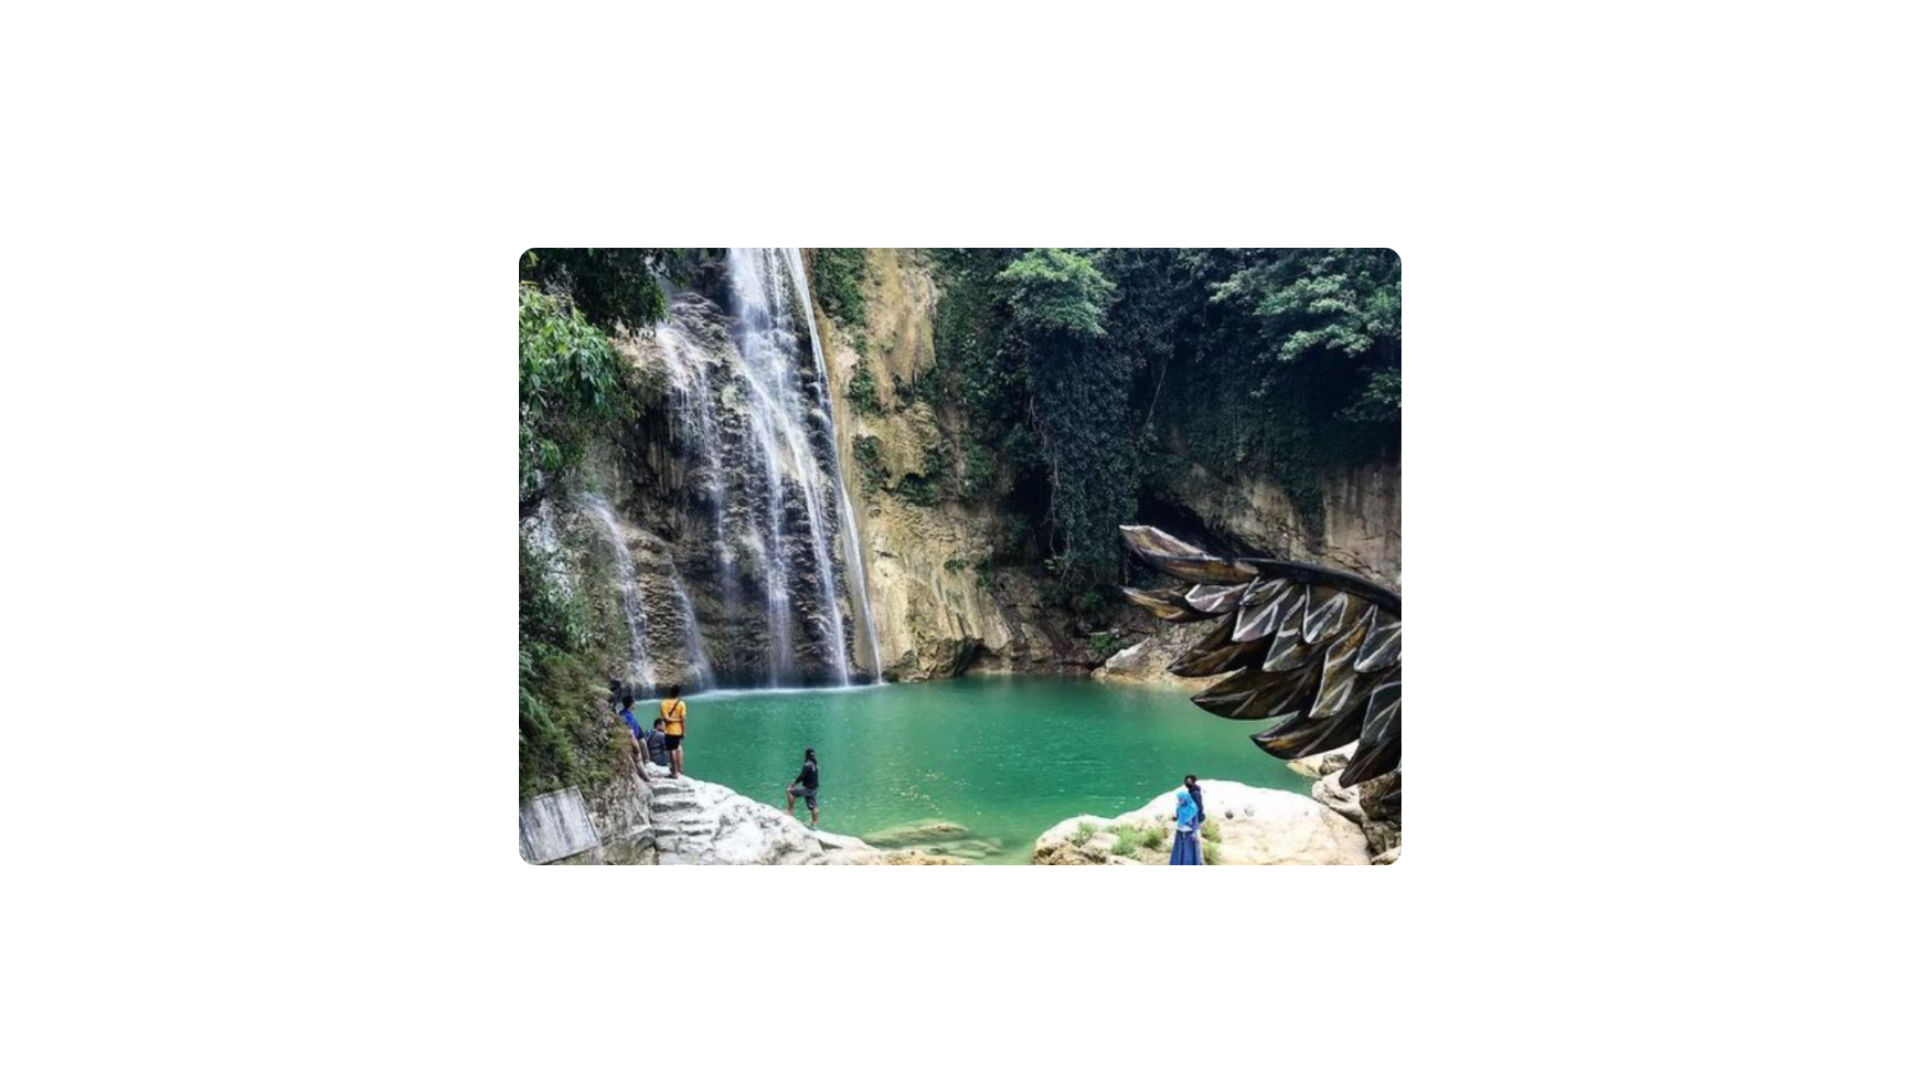
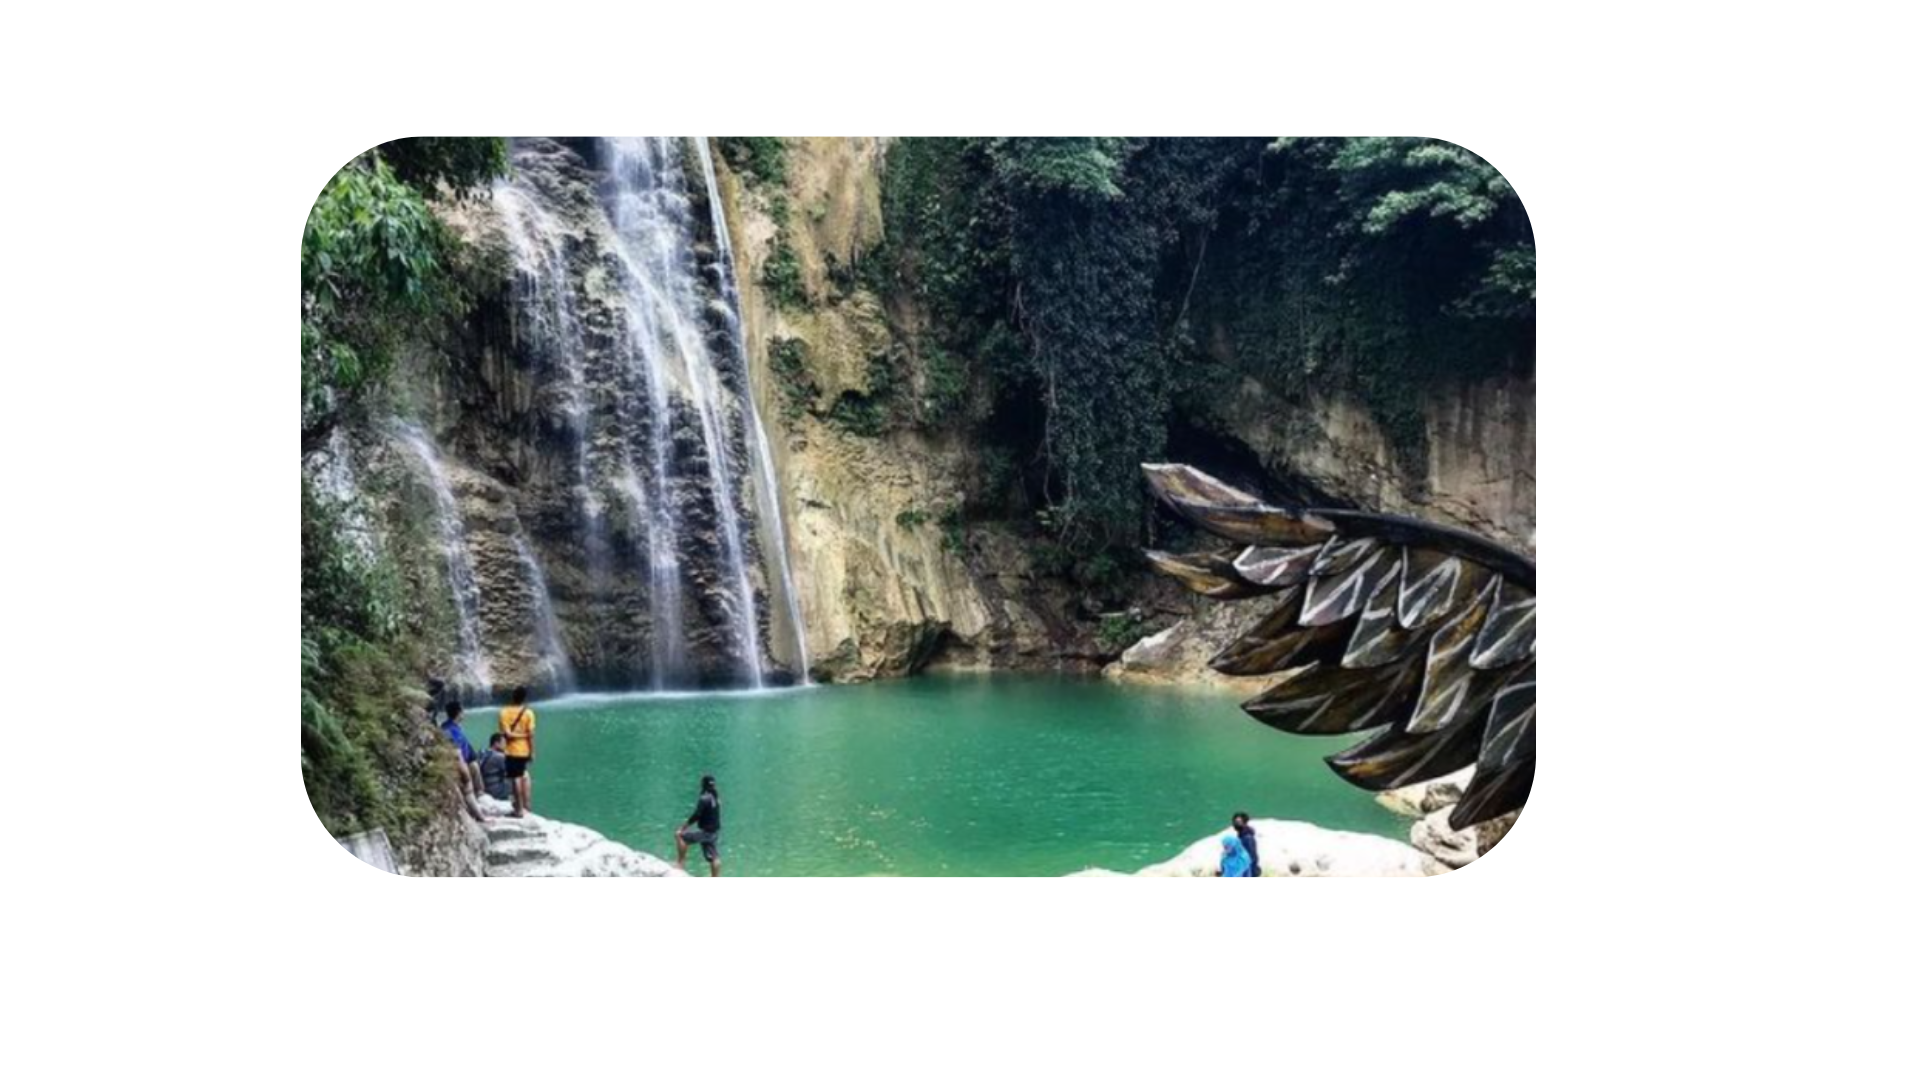
Update home

diff --git a/index.html b/index.html
@@ -87,21 +87,23 @@
         <div class="box-containt">
             <div class="boc">
             <img src="photo/dewa.png">
-            <!-- <h3>Memilik Keunikan Patung Dewa Kwan Kong di Tuban</h3>
-            <h4>Klenteng Kwan Sing Bio dibangun di area sekitar 4-5 hektar....</h4>
-            </div> -->
+            <h4>Menilik Keunikan Patung Dewa Kwan Kong di Tuban</h4>
+            <p>Klenteng Kwan Sing Bio dibangun di area sekitar 4-5 hektar....</p>
+            </div> 
             <div class="boc">
                 <img src="photo/layang.png">
-                <!-- <h3>Menikmati Surut di Pantai Cemara Tuban</h3>
-                <h4>Pantai tersebut ramai oleh wisatawan untuk menikmati surutnya air laut.....</h4>
-            </div> -->
+                <h4>Menikmati Surut di Pantai Cemara Tuban</h4>
+                <p>Pantai tersebut ramai oleh wisatawan untuk menikmati surutnya air laut.....</p>
+            </div>
             <div class="boc">
                 <img src="photo/danau.png">
-                <!-- <h3>13 Wisata Air di Tuban, Air Terjun sampai Pemandian Air Panas</h3>
-                <h4>Mulai dari wisata air terjun, danau, hingga kolam pemandian dan mata air, semua ada di...</h4>
-        </div> -->
+                <h4>13 Wisata Air di Tuban, Air Terjun sampai Pemandian Air Panas</h4>
+                <p>Mulai dari wisata air terjun, danau,hingga kolam pemandian dan mata air, semua ada di...</p>
+        </div>
     </div>
 </section>
+
+<!-- Hotel Recommendation -->
 
 
 

diff --git a/style.css b/style.css
@@ -75,7 +75,7 @@ a:hover {
 /* Navbar */
 
 .navbar {
-    width: 100%;
+    /* width: 100%; */
     height: 80px;
     max-width: 1200px;
     margin: 0 auto;
@@ -149,23 +149,22 @@ section {
     display: flex;
     flex-direction: row;
     justify-content: space-between;
-    align-items: center;
+   
 }
-
-.berita .box-containt .boc{
-    text-align: center;
-}
-
-.berita .box-containt .boc img{
-    width: 800px;
+.berita .box-containt img{
+    width: 500px;
     margin-inline: -23vh;
     margin-top: -15vh;
     margin-left: 5vh;
 }
 
-.famous .box-famous .boc h3{
-    margin-top: -2vh;
-    margin-right: -25vh;
-    text-align:center;
+.boc h4{
+    margin-left: 20vh;
+    margin-top: -7vh;
+}
+
+.boc p{
+    margin-left: 20vh;
+    
 }
 
